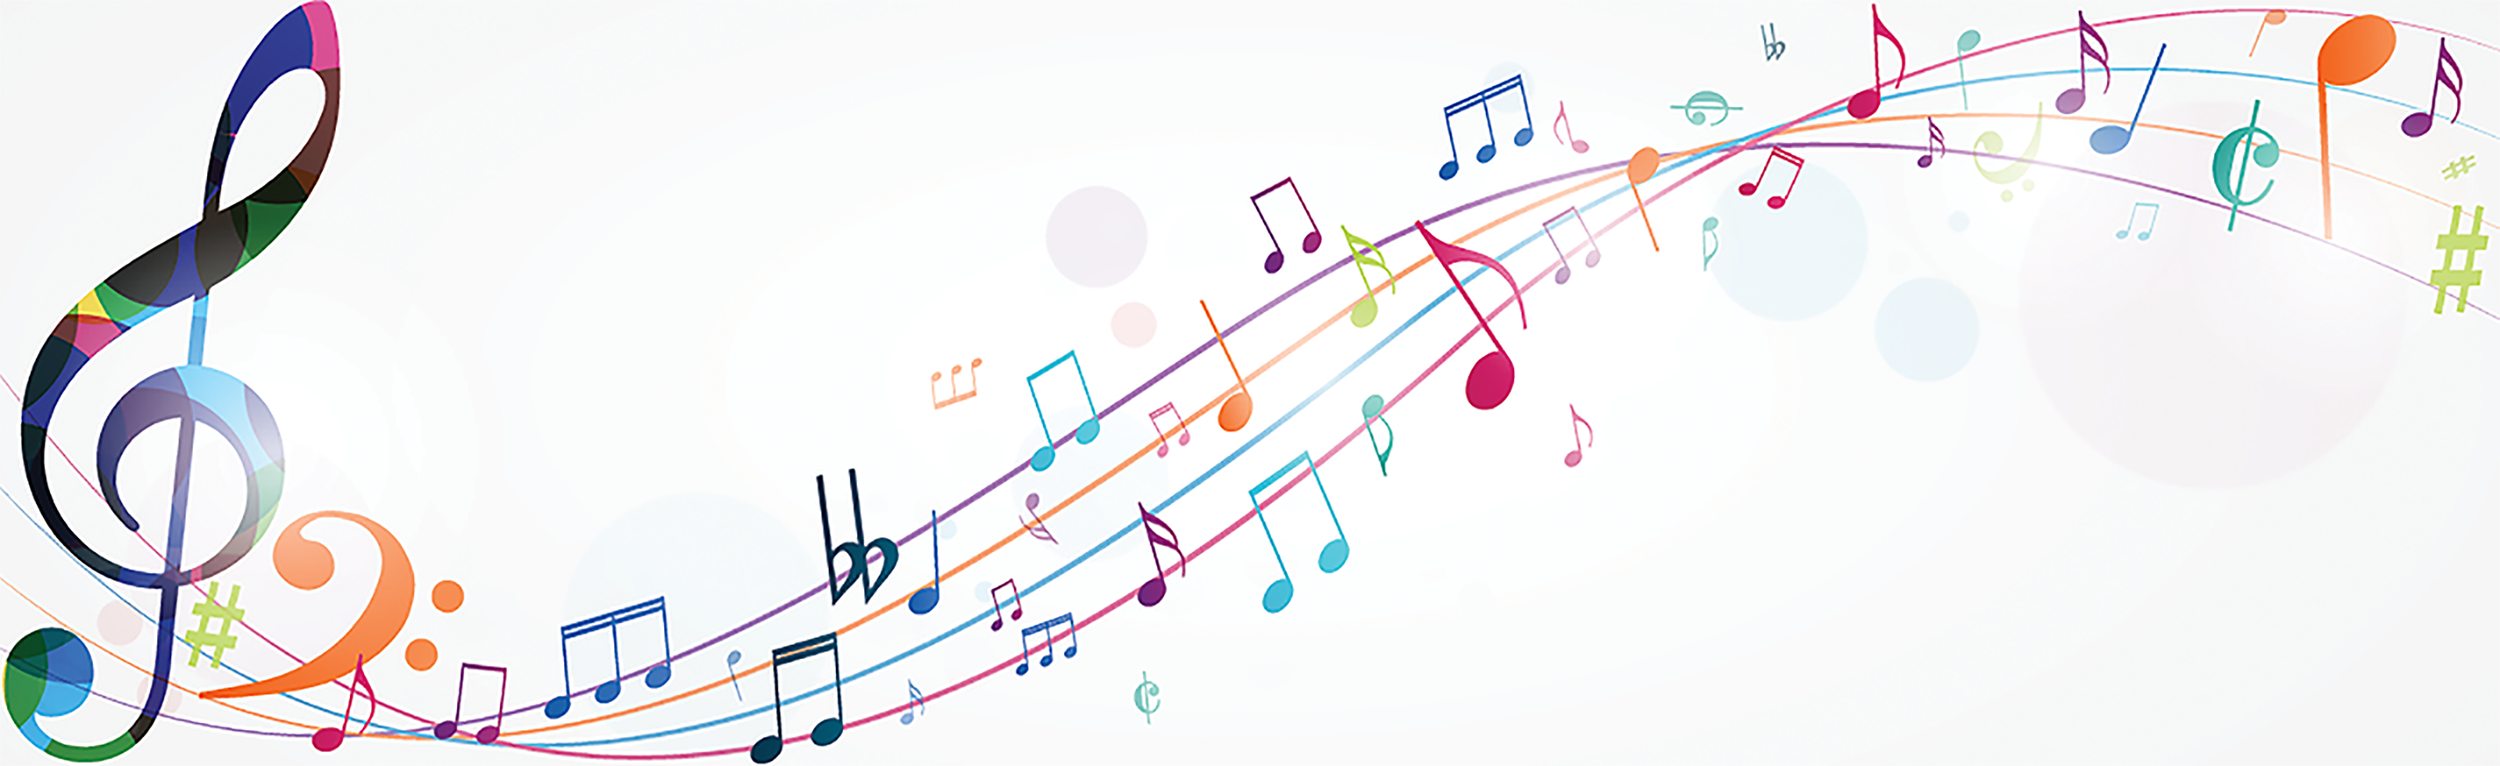
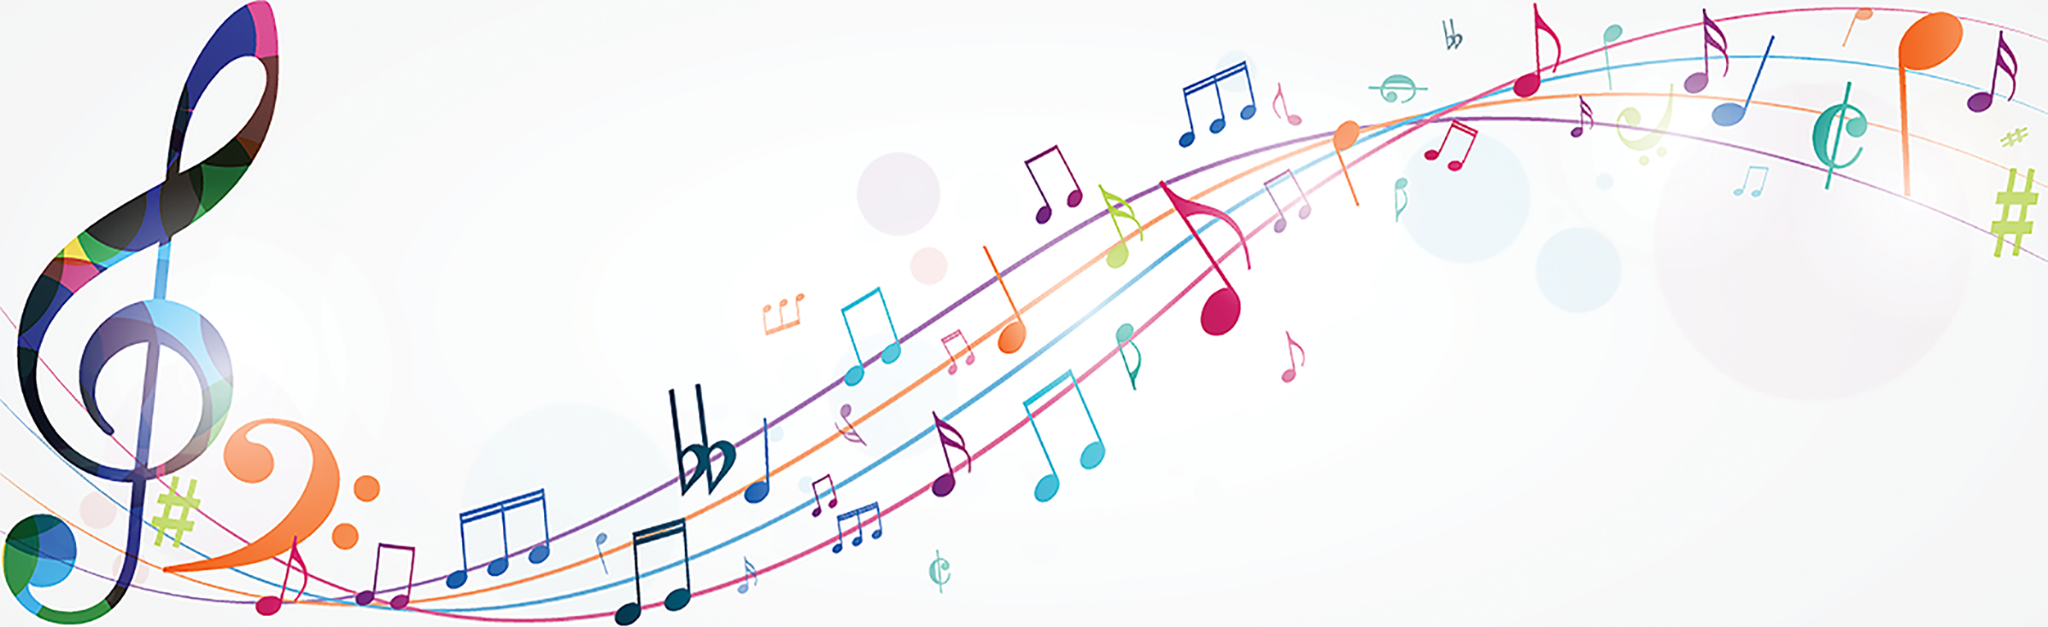
Add files via upload

diff --git a/strikeachord/lessons.html b/strikeachord/lessons.html
@@ -4,11 +4,12 @@
     <meta charset="UTF-8">
     <meta name="viewport" content="width=device-width, initial-scale=1.0">
     <title>Strike a Chord: Lessons</title>
+    <link href="https://fonts.googleapis.com/css2?family=DM+Serif+Display:ital@1&amp;family=Roboto:wght@400;700&amp;display=swap" rel="stylesheet">
     <link rel="stylesheet" href="css/styles.css">
 </head>
 <body>
     <header>
-        <h1>🎵 Strike a Chord 🎵</h1>
+        <h1><span class="tab-desk">&#9836;</span> Strike a Chord <span class="tab-desk">&#9836;</span></h1>
     </header>
 
     <nav>
@@ -20,6 +21,10 @@
         <li><a href="contact.html">Contact</a></li>
     </ul>
 </nav>
+<!-- Hero Image -->
+<div id="hero" class="tab-desk">
+    <img src="images/music-notes.png" alt="colorful music notes">
+</div>
 
     <main>
         <div id="info">
@@ -37,19 +42,19 @@
 
         <div id="piano">
             <h3>Piano Lessons</h3>
-            <img src="images/piano-lesson.jpg" alt="piano teacher and student sitting at a piano" >
+            <img class="round" src="images/piano-lesson.jpg" alt="piano teacher and student sitting at a piano" >
             <p>We offer piano lessons for all ages, beginning at age three. Whether you are a beginner or have been playing the piano for a while, we have a program to suit your needs. Learn new techniques, theory, harmony, and tone. Learning how to play the piano helps develop hand-eye coordination and self-confidence.</p>
         </div>
 
         <div id="guitar">
             <h3>Guitar Lessons</h3>
-            <img src="images/child-guitar.jpg" alt="child with a smile holding a guitar" >
+            <img class="round" src="images/child-guitar.jpg" alt="child with a smile holding a guitar" >
             <p>We teach acoustic guitar, electric guitar, bass guitar, and ukulele. We have guitar lessons for beginners, intermediate players, and advanced players. Improve your skills with weekly lessons. Learn new tips and techniques from experienced instructors. We also have a rock band program that you can join!</p>
         </div>
 
         <div id="violin">
             <h3>Violin Lessons</h3>
-            <img src="images/woman-violin.jpg" alt="woman playing the violin" >
+            <img class="round" src="images/woman-violin.jpg" alt="woman playing the violin" >
             <p>We offer violin lessons for all ages, beginning at age six. Our violin lessons include a variety of music styles, from fiddle to classical. Our instructors will help you fine-tune techniques and accomplish your musical goals. We work with you to create a customized program, tailored to your needs.</p>
         </div>
     </main>

diff --git a/strikeachord/css/styles.css b/strikeachord/css/styles.css
@@ -1,5 +1,5 @@
 /* CSS Reset */
-body, header, nav, main, footer, img, h1 {
+body, header, nav, main, footer, img, h1, ul {
     margin: 0;
     padding: 0;
     border: 0;
@@ -11,15 +11,19 @@ img {
     display: block;
 }
 
+.tab-desk {
+    display: none;
+}
+
 /* Style rules for header content */
 header {
     text-align: center;
-    font-size: 3em;
+    font-size: 1.5em;
     color: #373684;
 }
 
 header h1 {
-    font-style: italic;
+    font-family: "DM Serif Display", serif;
 }
 
 /* Style rules for navigation area */
@@ -29,12 +33,12 @@ nav {
 
 nav ul {
     list-style-type: none;
-    margin: 0;
     text-align: center;
 }
 
 nav li {
-    display: inline-block;
+    display: block;
+    border-top: 1px solid #e5e9fc;
     font-size: 2em;
 }
 
@@ -51,7 +55,7 @@ main {
     padding: 2%;
     background-color: #e5e9fc;
     overflow: auto;
-    font-family: Verdana, Arial, sans-serif;
+    font-family: "Roboto", sans-serif;
 }
 
 main p {
@@ -59,14 +63,12 @@ main p {
 }
 
 .action {
-    font-size: 1.75em;
+    font-size: 1.25em;
     color: #373684;
     font-weight: bold;
 }
 
 #piano, #guitar, #violin {
-    width: 29%;
-    float: left;
     margin: 0 2%;
 }
 
@@ -76,17 +78,43 @@ main p {
     padding: 1% 2%;
 }
 
+#info ul {
+    margin-left: 10%;
+}
+
+.round {
+    border-radius: 8px;
+}
+
 #contact {
     text-align: center;
 }
 
-#contact a {
+.tel-link {
+    background-color: #373684;
+    padding: 2%;
+    margin: 0 auto;
+    width: 80%;
+    text-align: center;
+    border-radius: 5px;
+}
+
+.tel-link a {
+    color: #fff;
+    text-decoration: none;
+    font-size: 1.5em;
+    display: block;
+}
+
+#contact .email-link {
     color: #4645a8;
     text-decoration: none;
     font-weight: bold;
 }
 
 .map {
+    width: 95%;
+    height: 50%;
     border: 5px solid #373684;
 }
 
@@ -165,4 +193,14 @@ form #submit {
 
 .btn {
     grid-column: 1 / span 2;
+}
+/* Stack the existing contact form on small screens. */
+@media screen and (max-width: 600px) {
+    .form-grid {
+        grid-template-columns: minmax(0, 1fr);
+    }
+
+    .btn {
+        grid-column: 1;
+    }
 }

diff --git a/strikeachord/contact.html b/strikeachord/contact.html
@@ -4,11 +4,12 @@
     <meta charset="UTF-8">
     <meta name="viewport" content="width=device-width, initial-scale=1.0">
     <title>Strike a Chord: Contact</title>
+    <link href="https://fonts.googleapis.com/css2?family=DM+Serif+Display:ital@1&amp;family=Roboto:wght@400;700&amp;display=swap" rel="stylesheet">
     <link rel="stylesheet" href="css/styles.css">
 </head>
 <body>
     <header>
-        <h1>🎵 Strike a Chord 🎵</h1>
+        <h1><span class="tab-desk">&#9836;</span> Strike a Chord <span class="tab-desk">&#9836;</span></h1>
     </header>
 
     <nav>
@@ -20,12 +21,16 @@
         <li><a href="contact.html">Contact</a></li>
     </ul>
 </nav>
+<!-- Hero Image -->
+<div id="hero" class="tab-desk">
+    <img src="images/music-notes.png" alt="colorful music notes">
+</div>
 
     <main>
         <div id="contact">
             <h2>Contact us today to schedule your first lesson.</h2>
-            <p>Phone Number: (814) 555-9228</p>
-            <p>Email: <a href="mailto:lessons@strikeachord.net">lessons@strikeachord.net</a></p>
+            <p class="tel-link"><a href="tel:8145559228">(814) 555-9228</a></p>
+            <p>Email: <a class="email-link" href="mailto:lessons@strikeachord.net">lessons@strikeachord.net</a></p>
             <p>We are located at: 1122 Music Lane, Chicago, IL 60007</p>
             <iframe class="map" src="https://maps.google.com/maps?q=Chicago%2C%20IL&amp;output=embed" title="Map of Chicago, Illinois" width="600" height="450" loading="lazy"></iframe>
         </div>
@@ -78,6 +83,7 @@
 
         <input type="submit" value="Submit" class="btn" id="submit">
     </form>
+        </div>
     </main>
 
     <footer>

diff --git a/strikeachord/template.html b/strikeachord/template.html
@@ -4,11 +4,12 @@
     <meta charset="UTF-8">
     <meta name="viewport" content="width=device-width, initial-scale=1.0">
     <title>Strike a Chord: Template</title>
+    <link href="https://fonts.googleapis.com/css2?family=DM+Serif+Display:ital@1&amp;family=Roboto:wght@400;700&amp;display=swap" rel="stylesheet">
     <link rel="stylesheet" href="css/styles.css">
 </head>
 <body>
     <header>
-        <h1>🎵 Strike a Chord 🎵</h1>
+        <h1><span class="tab-desk">&#9836;</span> Strike a Chord <span class="tab-desk">&#9836;</span></h1>
     </header>
 
    <nav>
@@ -20,6 +21,10 @@
         <li><a href="contact.html">Contact</a></li>
     </ul>
 </nav>
+<!-- Hero Image -->
+<div id="hero" class="tab-desk">
+    <img src="images/music-notes.png" alt="colorful music notes">
+</div>
 
     <main>
         <!-- Add page content here -->

diff --git a/strikeachord/index.html b/strikeachord/index.html
@@ -4,11 +4,12 @@
     <meta charset="UTF-8">
     <meta name="viewport" content="width=device-width, initial-scale=1.0">
     <title>Strike a Chord: Home</title>
+    <link href="https://fonts.googleapis.com/css2?family=DM+Serif+Display:ital@1&amp;family=Roboto:wght@400;700&amp;display=swap" rel="stylesheet">
     <link rel="stylesheet" href="css/styles.css">
 </head>
 <body>
     <header>
-        <h1>🎵 Strike a Chord 🎵</h1>
+        <h1><span class="tab-desk">&#9836;</span> Strike a Chord <span class="tab-desk">&#9836;</span></h1>
     </header>
 
     <nav>
@@ -21,7 +22,7 @@
     </ul>
 </nav>
 <!-- Hero Image -->
-<div id="hero">
+<div id="hero" class="tab-desk">
     <img src="images/music-notes.png" alt="colorful music notes">
 </div>
     <main>
